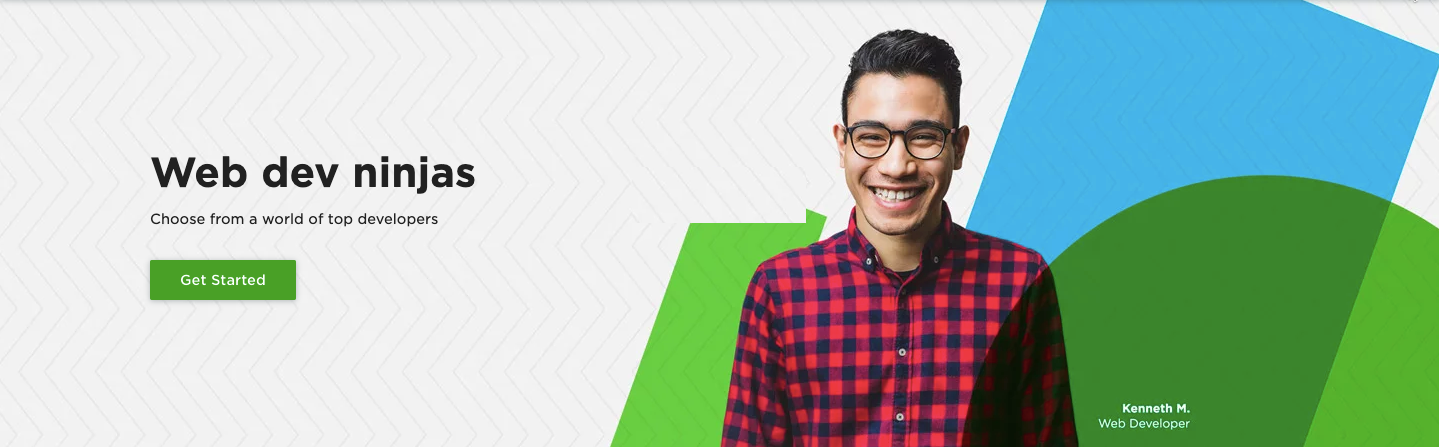
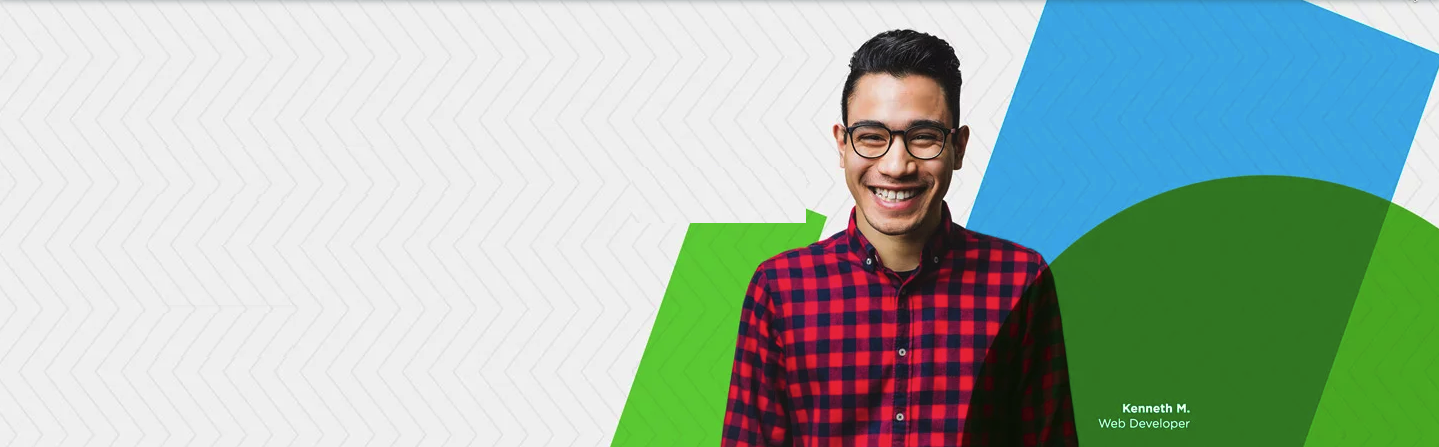
<Visuals and Graphics update>

diff --git a/public/html/home.html b/public/html/home.html
@@ -122,7 +122,7 @@
         </small>
     </div>
     <!-- Banner -->
-    <img src="../../assets/images/banner.png" class="img-fluid" alt="Responsive image">
+    <img src="../../assets/images/banner copy.png" class="img-fluid" alt="Responsive image">
     <!-- Clients -->
     <div class="clients">
         <div class="container" id="categories">
@@ -224,7 +224,7 @@
             </div>
             <!-- Developers cards -->
             <div class="media position-relative">
-                <img src="../../assets/images/TanyaNew.png" class="mr-3" alt="...">
+                <img src="../../assets/images/tanyaprofile.png" style="width: 15%; height: 200%; object-fit:cover;" class="mr-3" alt="tanyaodegova">
                 <div class="media-body">
                     <h5 class="mt-0">Tanya O. </h5>
                     <p>A highly driven, organized, and efficient project manager has a proven track record of quality and timely project completions. Experienced in managing and a wide variety of positions on various teams throughout numerous projects / project types, Tanya Odegova is focused on the big picture milestones while continuous and actively participating in development, maintaining feedback and guidance, and pursuing open, appreciable, and gratifying client relationships.</p>
@@ -234,7 +234,7 @@
             <br>
             <hr>
             <div class="media position-relative">
-                <img src="../../assets/images/NygelNew.png" style="width:10%;height:200%;object-fit:cover;" class="mr-3" alt="...">
+                <img src="../../assets/images/NygelNew.png" style="width:10%;height:200%;object-fit:cover;" class="mr-3" alt="nygel">
                 <div class="media-body">
                     <h5 class="mt-0">Nygel P. </h5>
                     <p>I am a Front End and Back End Developer.  I enjoy taking complex problems and turning them into simple and beautiful code. I love structure and logic. I have been coding around 6 years now and I never stop learning – I love it. I want to share my knowledge with other upcoming or current developers. I am a current developer at the Digital Advertising Agency based in Charlotte, NC. Where I spend constant hours making the internet a better place.</p>
@@ -245,7 +245,7 @@
             <hr>
 
             <div class="media position-relative">
-                <img src="..." class="mr-3" alt="...">
+                <img src="../../assets/images/Britt.png"  style="width: 15%; height: 200%; object-fit:cover;" class="mr-3" alt="...">
                 <div class="media-body">
                     <h5 class="mt-0">Brittany F. </h5>
                     <p>I am a full stack web developer with almost 6 years experience designing, developing, and maintaining web applications on the cloud.</p>

diff --git a/public/css/style.css b/public/css/style.css
@@ -118,3 +118,4 @@ body, html {
  #modalBody{
     margin: 25px 25px 25px 45px;
  }
+ /* profile imagees */
